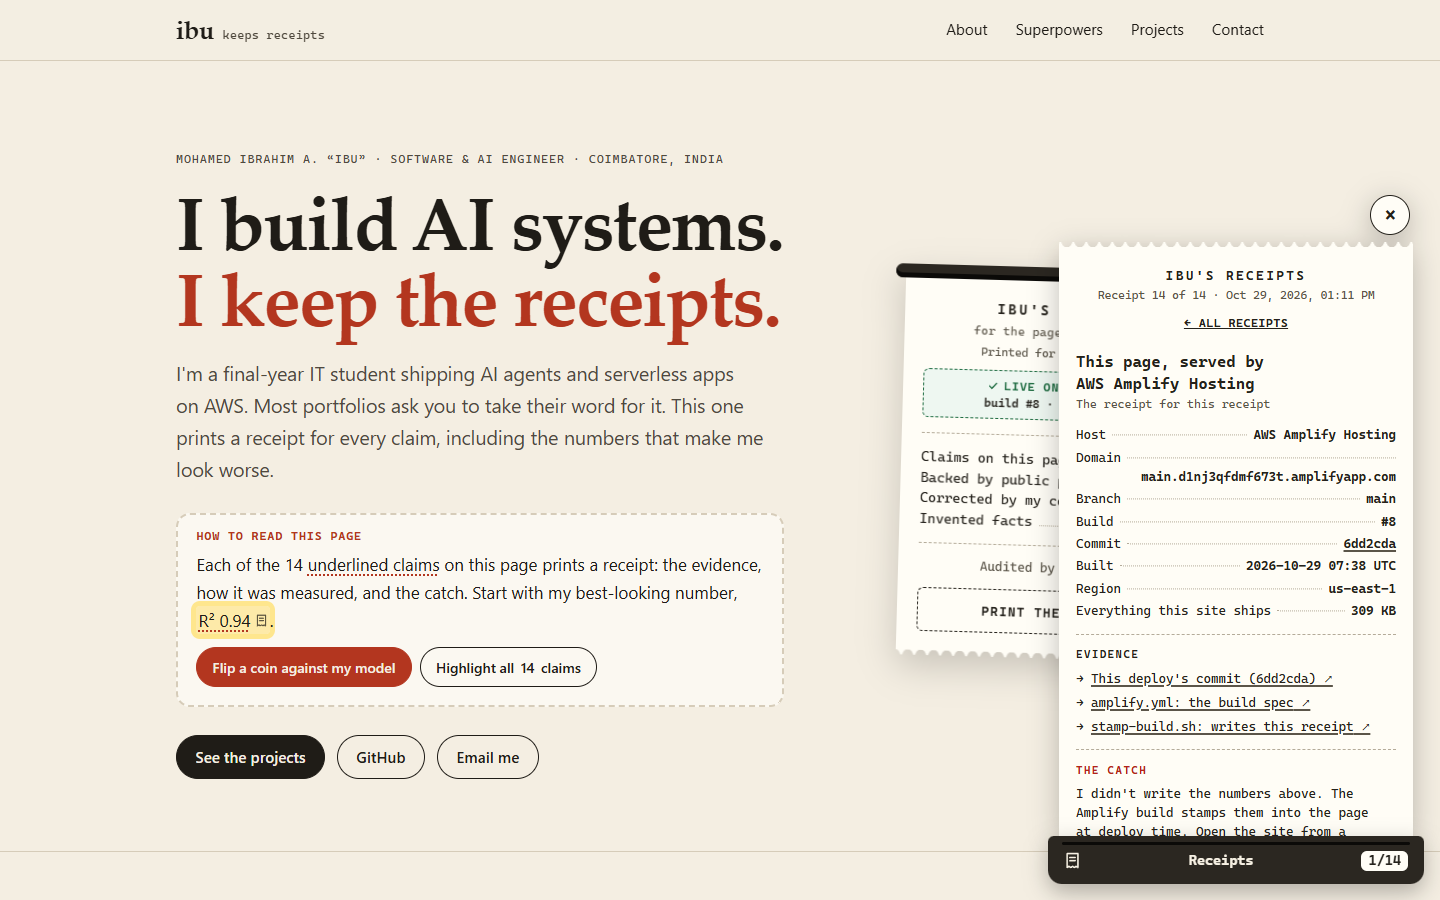
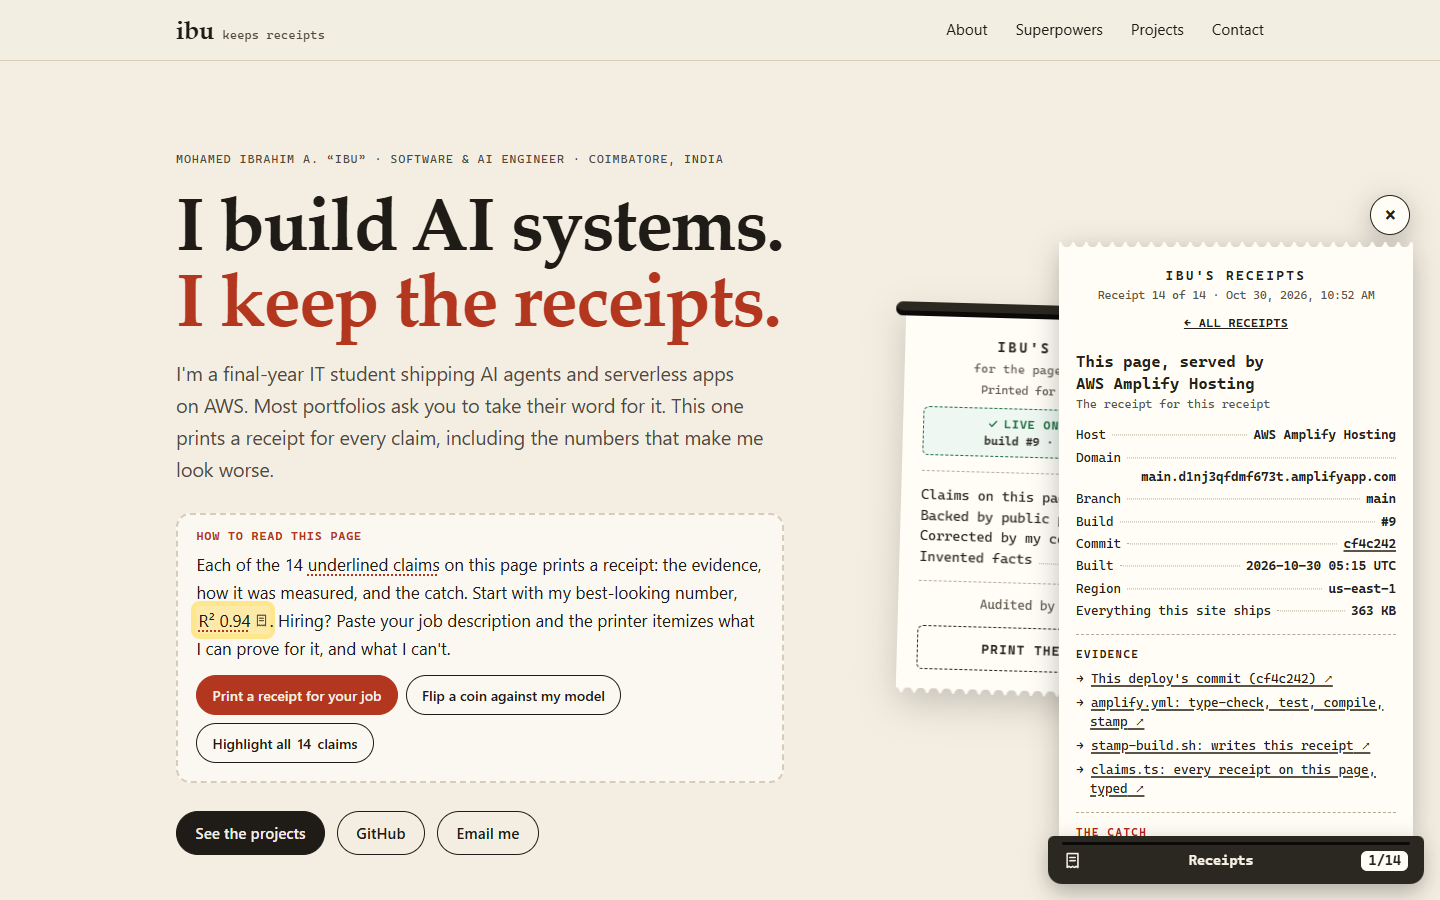
Screenshots from build #9, with the job receipt [skip-cd]
Retakes every website shot from build #9 (commit cf4c242), adds the job
receipt on desktop (#22) and phone (#23), retakes the repo page, and points
the README and write-up at build #9. The first-load figure is re-measured on
the live site: 87 KB on a desktop, 110 KB on a phone.

diff --git a/PROJECT_WRITEUP.md b/PROJECT_WRITEUP.md
@@ -28,10 +28,12 @@ So for this challenge I asked: what if my portfolio followed the same rule? The 
 - **A receipt for your job.** Paste a job description, or pick one of three samples, and the printer itemizes it against what I can prove. Each requirement prints as **Proven** (with a link to the exact file and line, at a pinned commit), **Partial** (with the reason) or **No receipt** ("I won't claim this"). It reads must-haves and nice-to-haves from the description's own headings, and it runs entirely in the browser: nothing you paste is sent or saved.
 - **Coin vs. model.** The first screen has a **Flip a coin against my model** button. It prints the CryptoPulse receipt and races a coin, flipped 100 times, against my model's 47.93%. The coin often wins, and the receipt says so.
 - **The itemized bill.** The printer tab opens a summary: 14 claims, how many are backed by public proof, partial or self-reported, write-ups the code corrected, invented facts (0), and how many receipts *you* have audited.
-- **The page's own receipt.** On the first screen, the hero receipt shows which Amplify build and commit you're looking at ("Live on AWS Amplify · build #8 · commit 6dd2cda"). Click that, or the footer's "deployed on AWS Amplify", and you get the full receipt: app, branch, build number and commit, written into the page by the Amplify build at deploy time. I didn't type them. AWS did.
+- **The page's own receipt.** On the first screen, the hero receipt shows which Amplify build and commit you're looking at ("Live on AWS Amplify · build #9 · commit cf4c242"). Click that, or the footer's "deployed on AWS Amplify", and you get the full receipt: app, branch, build number and commit, written into the page by the Amplify build at deploy time. I didn't type them. AWS did.
 - **Re-check it yourself.** Every receipt ends with **Re-check with AWS Lambda**. A Lambda fetches that receipt's evidence from GitHub, at the exact commit it cites, and checks it again while you watch. For example, it confirms the registry still holds 30 tool schemas and the notebook still prints 47.93%. On the page's own receipt, it asks the AWS Amplify API which build is live, and the page confirms it was built by that exact build.
 
-![The page's own receipt (build #8, commit 6dd2cda) next to Amplify's build #8, whose log prints the same commit](https://raw.githubusercontent.com/MdIbuA/ibu-receipts/main/docs/screenshots/07-site-receipt-vs-console.png)
+![A job receipt for a sample cloud intern role: TypeScript, Amazon S3 and CI/CD proven with links to the exact file and line, and DynamoDB printed as No receipt](https://raw.githubusercontent.com/MdIbuA/ibu-receipts/main/docs/screenshots/22-job-receipt.png)
+
+![Captured at build #8: the page's own receipt (build #8, commit 6dd2cda) next to Amplify's build #8, whose log prints the same commit](https://raw.githubusercontent.com/MdIbuA/ibu-receipts/main/docs/screenshots/07-site-receipt-vs-console.png)
 
 ![Re-check on the page's own receipt: the AWS Amplify API reports the live build, and the page confirms it was built by that exact build](https://raw.githubusercontent.com/MdIbuA/ibu-receipts/main/docs/screenshots/21-site-recheck-aws.png)
 
@@ -75,6 +77,8 @@ Recruiters and judges arrive with a role in mind, so I let them ask the page abo
 
 At the same time I moved the feature to TypeScript 7 under every strict flag, so the receipts' rules are types: a verified receipt that cites nothing doesn't compile, and neither does evidence pointing at a branch instead of a commit. A type-level test file holds dishonest receipts that must fail to compile. 47 unit tests hold the page to its data, and a script re-reads all 133 pieces of evidence at their pinned commits. The Amplify build now type-checks and tests before it compiles anything, so a broken rule stops a deploy, and GitHub Actions runs the same on every push. The site still has no framework, no bundler and no runtime dependencies.
 
+![A job receipt's totals on a phone: no receipt for 5 requirements, 0 invented to fit the job, stamped 11 of 17 proven](https://raw.githubusercontent.com/MdIbuA/ibu-receipts/main/docs/screenshots/23-job-receipt-mobile.png)
+
 ## AWS services used
 
 | Service | What it does here |
@@ -105,7 +109,7 @@ There's no database: nothing here needs state, and CloudWatch already keeps the 
 - **The deploy can testify for itself.** Amplify's build variables let the page show which build and commit it came from, which is more convincing than any "hosted on AWS" badge.
 - **A playful feature still has to be a good citizen.** I made it a non-modal panel instead of a modal, returned focus on Escape, supported reduced motion, and gave visitors without JavaScript plain links. The fun layer can't cost a recruiter anything.
 - **A backend can be tiny and still earn its place.** One route and one Lambda add the one thing a static page can't do: an independent, live check that the evidence still says what the receipt claims.
-- **Small is fast.** A visitor's first load is about 42 KB over the wire, and my photo is the biggest file in it. System fonts and inline SVG did the design work.
+- **Small is fast.** A visitor's first load is about 87 KB over the wire on a desktop (110 KB on a phone, which gets a sharper photo), and my photo is the biggest file in it. System fonts and inline SVG did the design work, and the TypeScript compiles to plain modules, with no framework to download.
 
 ## Challenges and how I solved them
 

diff --git a/README.md b/README.md
@@ -28,7 +28,7 @@ What else it does:
 - **A receipt for your job.** Paste a job description, or pick one of three samples, and the printer itemizes it against what I can prove. Every requirement it recognises prints as **Proven** (linked to the exact file and line, at a pinned commit), **Partial** (with the reason) or **No receipt** ("I won't claim this"). It reads must-haves and nice-to-haves from the description's own headings. It runs entirely in the browser; nothing you paste is sent or saved.
 - **Coin vs. model.** A **Flip a coin against my model** button on the first screen prints the CryptoPulse receipt and flips a coin 100 times against my LSTM's 47.93% direction accuracy. The coin often wins, and the receipt says so.
 - **The itemized bill.** A summary receipt with claims verified, partial and self-reported, write-ups corrected, invented facts (0), and how many receipts *you* have audited.
-- **The page's own receipt.** The hero receipt shows which Amplify build and commit you're looking at (for example "Live on AWS Amplify · build #8 · commit 6dd2cda"). That line, and the footer claim "deployed on AWS Amplify", print a receipt the Amplify build writes at deploy time: app, branch, build number and commit. I don't write those numbers. AWS does.
+- **The page's own receipt.** The hero receipt shows which Amplify build and commit you're looking at (for example "Live on AWS Amplify · build #9 · commit cf4c242"). That line, and the footer claim "deployed on AWS Amplify", print a receipt the Amplify build writes at deploy time: app, branch, build number and commit. I don't write those numbers. AWS does.
 - **Re-check it yourself.** Every receipt ends with **Re-check with AWS Lambda**. A Lambda behind API Gateway fetches the evidence from GitHub at the pinned commit and runs that claim's checks again, live. There are 31 checks across 13 claims. On the page's own receipt, it asks the Amplify API which build is live.
 
 ### Why this is me
@@ -100,7 +100,7 @@ The site is TypeScript 7 under every strict flag, compiled by `tsc` into plain E
 - **The evidence is re-read** (`npm run evidence`): every file the skill map points at is fetched at its pinned commit, and its line must still show the named text.
 - **Nothing ships unchecked.** The Amplify build runs the type check and the tests before it compiles anything, so a broken rule stops the deploy. GitHub Actions runs the same on every push, plus the evidence check.
 
-Everything the site ships totals about 370 KB, mostly images (my portrait and the link-preview card). The JavaScript is 28 KB gzipped, and the browser fetches every module at once through `modulepreload` hints.
+Everything the site ships totals about 370 KB, mostly images (my portrait and the link-preview card). A visitor's first load is about 87 KB over the wire on a desktop and 110 KB on a phone. The JavaScript is 28 KB gzipped, and the browser fetches every module at once through `modulepreload` hints.
 
 ## Run it locally
 
@@ -156,7 +156,8 @@ Link evidence with **commit permalinks** (on GitHub, open the file and press `y`
 | | |
 |---|---|
 | ![Desktop: a printed receipt](docs/screenshots/10-feature-receipt-desktop.png) | ![Mobile: the receipt as a bottom sheet](docs/screenshots/11-feature-receipt-mobile.png) |
-| ![The itemized bill](docs/screenshots/12-feature-bill.png) | ![The page's own receipt, written by the Amplify build: build #8, commit 6dd2cda](docs/screenshots/15-live-site-receipt.png) |
+| ![The itemized bill](docs/screenshots/12-feature-bill.png) | ![The page's own receipt, written by the Amplify build: build #9, commit cf4c242](docs/screenshots/15-live-site-receipt.png) |
+| ![A job receipt: proven skills linked to the exact file and line, and DynamoDB printed as No receipt](docs/screenshots/22-job-receipt.png) | ![A job receipt's totals on a phone, stamped 11 of 17 proven](docs/screenshots/23-job-receipt-mobile.png) |
 
 ## Credits
 

diff --git a/SCREENSHOTS.md b/SCREENSHOTS.md
@@ -2,7 +2,7 @@
 
 Save each one as a PNG in `docs/screenshots/` with exactly this filename. README.md and PROJECT_WRITEUP.md already point at these names.
 
-**Status (Oct 30): all 21 are captured.** The website shots (#8–15, #20, #21) come from the live site (headless Chrome, light mode; desktop 1440×900, phone 360×740 at 2×). The AWS console shots (#1–7, #16–19) were taken on Oct 30 in a signed-in console window, with the account ID masked in the page before each capture.
+**Status (Oct 30): all 23 are captured.** The website shots (#8–15, #20–23) come from the live site at build #9 (headless Chrome, light mode; desktop 1440×900, phone 360×740 at 2×). The AWS console shots (#1–7, #16–19) were taken on Oct 30 in a signed-in console window, with the account ID masked in the page before each capture.
 
 **Keep the build numbers consistent.** Screenshot-only pushes don't change the site, so end their commit message with `[skip-cd]`. Amplify then skips the build, and the live receipt keeps showing the same build as your console screenshots:
 
@@ -40,6 +40,13 @@ git push
 | 19 | `19-amplify-env-var.png` | Amplify → Hosting → **Environment variables** | `VERIFY_URL` = the `…execute-api.us-east-1.amazonaws.com/recheck` URL. **Captured.** |
 | 20 | `20-recheck-in-action.png` | Live site → `#r-supermarket` → **Re-check with AWS Lambda** | "✓ All 4 checks passed · checked … by AWS Lambda". **Captured.** |
 | 21 | `21-site-recheck-aws.png` | Live site → `#r-site` → **Re-check with AWS Lambda** | The AWS Amplify API's latest build and commit, then "This page was built by that exact build." **Captured.** |
+
+## The job receipt
+
+| # | File | Where | Must be visible |
+|---|---|---|---|
+| 22 | `22-job-receipt.png` | Live site → `#job-cloud-intern` | A job receipt for the sample cloud intern role: proven lines with their file:line links, and at least one **No receipt** line. **Captured.** |
+| 23 | `23-job-receipt-mobile.png` | Device mode 360 → `#job-ml-engineer`, scrolled to the end | The totals (Proven, Partial, No receipt, Invented 0) and the "N of M proven" stamp. **Captured.** |
 
 ## The live portfolio (proves completeness and usability)
 
